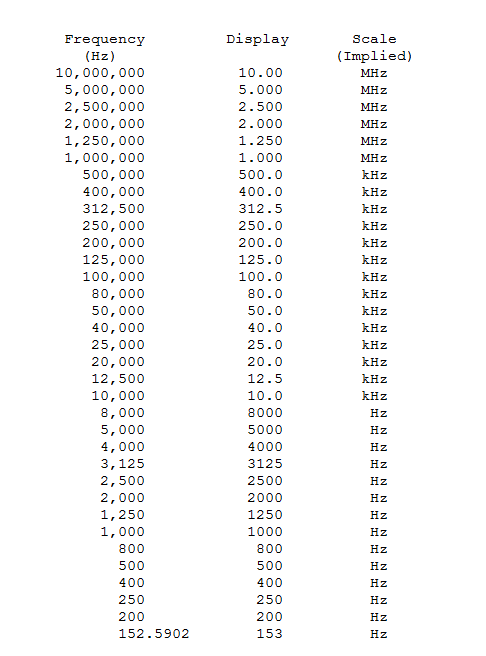
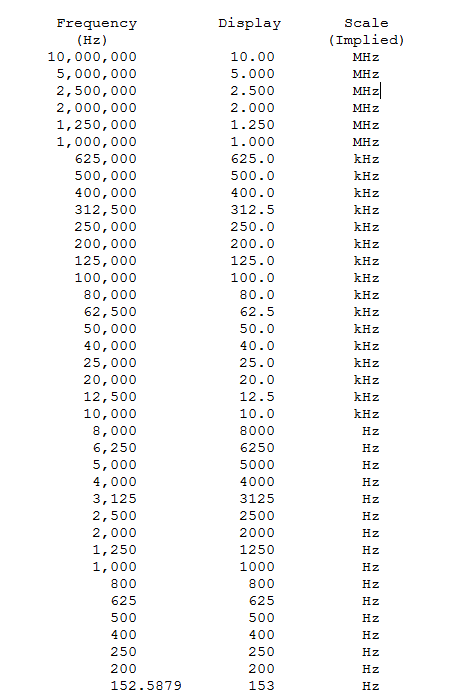
Added library. Updated freq table.

Changed region(s): [[0.0899, 0.0305, 0.3897, 1.0], [0.4497, 0.0305, 0.5996, 1.0], [0.6895, 0.0305, 0.8694, 1.0]]

diff --git a/firmware/Timer1/Timer1.cpp b/firmware/Timer1/Timer1.cpp
@@ -1,0 +1,102 @@
+/**************************************************************************/
+/*! 
+    @file     Timer1.cpp
+    @author   C. Schnarel
+	@license  BSD (see license.txt)
+	
+	This is a library to control ATMega microcontroller timer/counter1
+	as a programmable frequency generator. Counter divides the system clock
+	F_CLK by the specified divisor times two. F_OUT = F_CLK / (2 * divisor)
+
+	Output is on OC1A (B1 on the ATmega328, D9 on Arduino Uno)
+
+	@section  HISTORY
+
+    2015-Sep-2  - First release, C. Schnarel
+*/
+/**************************************************************************/
+
+#include "Timer1.h"
+
+/*
+ ** Default constructor
+ */
+Timer1::Timer1() {
+}
+
+
+/** Initialize
+ *    sets divisor to 1 (divide by 2)
+ */
+void Timer1::begin(void) {
+
+#if defined (__AVR_ATmega168__) || defined (__AVR_ATmega48__) || defined (__AVR_ATmega88__) || defined (__AVR_ATmega328P__) || (__AVR_ATmega1280__)
+
+
+// set timer/counter1 hardware as counter:
+//   Counts sysclk; clear on OCR1A compare match;
+//   toggle output on compare match, prescaler = 1
+//
+//     CTC mode(wgm13:wgm10 = 0b0100)
+//     Toggle OC1A (com1A1:com1A0 = 0b01)
+//     OC1B disconnected (com1B1:com1B0 = 0b00)
+//     ICNC1 = 0
+//     ICES1 = 0
+//     Prescaler = 1 (CS12:CS10 = 0b001) (0b000 = clock off)
+
+    TCCR1A = 0x40;		// set up the counter
+    TCCR1B = 0x08;		// but leave it stopped
+
+    
+    OCR1A = 0;			// Initialize OCR1A to 0 (output half sysclock)
+    TCNT1 = 0;			// initialize counter value = 0
+    
+    TCCR1B = 0x09;		//   start counting now  
+    DDRB |= (1<<DDB1);	// allow the pin, OC1A (B1), to drive 
+
+  
+#endif
+}
+
+/** Set counter divisor
+ *    output = F_CLK / (2 * divisor)
+ */
+void Timer1::setDivisor(uint16_t divisor) {
+
+#if defined (__AVR_ATmega168__) || defined (__AVR_ATmega48__) || defined (__AVR_ATmega88__) || defined (__AVR_ATmega328P__) || (__AVR_ATmega1280__)
+
+    uint8_t prescaler = TCCR1B;  // remember the prescaler value
+    TCCR1B = 0x08;		// stop the counter
+
+    OCR1A = divisor;		// set the new divisor
+    TCNT1 = 0;			// initialize counter value = 0
+
+    TCCR1B = prescaler;		// restart the counter
+    DDRB |= (1<<DDB1);     // allow the pin, OC1A (B1), to drive 
+
+#endif
+}
+
+/** Set counter prescaler
+ *    scale = 0; stop clock
+ *    scale = 1; clock
+ *    scale = 2; clock/8
+ *    scale = 3; clock/64
+ *    scale = 4; clock/256
+ *    scale = 5; clock/1024
+ */
+void Timer1::setPrescaler(uint8_t scale) {
+
+#if defined (__AVR_ATmega168__) || defined (__AVR_ATmega48__) || defined (__AVR_ATmega88__) || defined (__AVR_ATmega328P__) || (__AVR_ATmega1280__)
+
+
+    TCCR1B = 0x08;		// stop the counter
+
+    TCNT1 = 0;			// initialize counter value = 0
+
+    TCCR1B = 0x08 | scale;		// restart the counter with new prescaler value
+    DDRB |= (1<<DDB1);     // allow the pin, OC1A (B1), to drive 
+
+#endif
+}
+

diff --git a/firmware/Timer1/Timer1.h b/firmware/Timer1/Timer1.h
@@ -1,0 +1,47 @@
+
+
+
+/**************************************************************************/
+/*! 
+    @file     Timer1.h
+    @author   C. Schnarel
+	@license  BSD (see license.txt)
+	
+	This is a library to control ATMega microcontroller timer/counter1
+	as a programmable frequency generator. Counter divides the system clock
+	F_CLK by the specified divisor times two. F_OUT = F_CLK / (2 * divisor)
+
+	Output is on OC1A (B1 on the ATmega328, D9 on Arduino Uno)
+
+	@section  HISTORY
+
+    2015-Sep-2  - First release, C. Schnarel
+*/
+/**************************************************************************/
+
+#ifndef Timer1_h_
+#define Timer1_h_
+
+
+#include <avr/interrupt.h>
+#if defined(ARDUINO) && ARDUINO >= 100
+#include "Arduino.h"
+#else
+#include "WProgram.h"
+#endif
+
+class Timer1 {
+    public:
+        Timer1(void);
+
+        void begin(void);
+        void setDivisor(uint16_t divisor);
+        void setPrescaler(uint8_t scale);
+};
+
+#endif /* Timer1_h_ */
+
+
+
+
+

diff --git a/README.md b/README.md
@@ -31,7 +31,7 @@ NOTES
 
 ** Mostly.  All but the last are even numbered divisions of the master clock.  The last is the highest possible divisor, 65535, generating the lowest possible*** frequency.
 
-*** Not really.  The firmware configures the timer/counter to be driven by the system clock.  By reconfiguring, the timer/counter could instead be driven by a prescaled clock.  Prescaler values are 8, 64, 256, 1024, allowing for much lower frequency generation if needed.
+*** Not really.  The firmware configures the timer/counter to be driven by the system clock.  By reconfiguring, the timer/counter could instead be driven by a prescaled clock.  Prescaler values are 1, 8, 64, 256, 1024, allowing for much lower frequency generation if needed.  The prescaler value can be set via the USB interface.
 
 ## Order PCBs  
 
@@ -46,10 +46,11 @@ You can order this PCB directly from OSH Park.  Click on the following link.
 
 <img src="https://raw.githubusercontent.com/uChip/FrequencyReference/master/revAbottom.png" alt="PCB Bottom" height="425" width="510">
 
-See the Bill of Materials (BOM) file in the repo Hardware folder for a parts list.  
+See the Bill of Materials (BOM) file for a parts list.  
 
 ## Status  
-  * Rev A PCB and firmware have been tested to be functional. 
+  * Rev A PCB and firmware have been tested to be functional. Rev A is an earlier branch in this repo.  The design has since moved on to add support for other oscillators.
+  * Rev B Not yet complete or tested.
 
 ## File Formats  
 
@@ -59,7 +60,7 @@ The example code is in Arduino .ino format (text).  A free version of the Arduin
 
 ## Attributions
 
-While the board layout, circuit design and microcontroller firmware are all my own, the idea for this project grew out of the $3 Precision Frequency Standard thread started by paulie on EEVBlog forum  http://www.eevblog.com/forum/projects/3-dollar-precision-frequency-standard/  
+While the board layout, circuit design and microcontroller firmware are all my own, the idea for this project grew out of the 3 Dollar Precision Frequency Standard thread started by paulie on EEVBlog forum  http://www.eevblog.com/forum/projects/3-dollar-precision-frequency-standard/  
 
 ## Distribution License  
 
